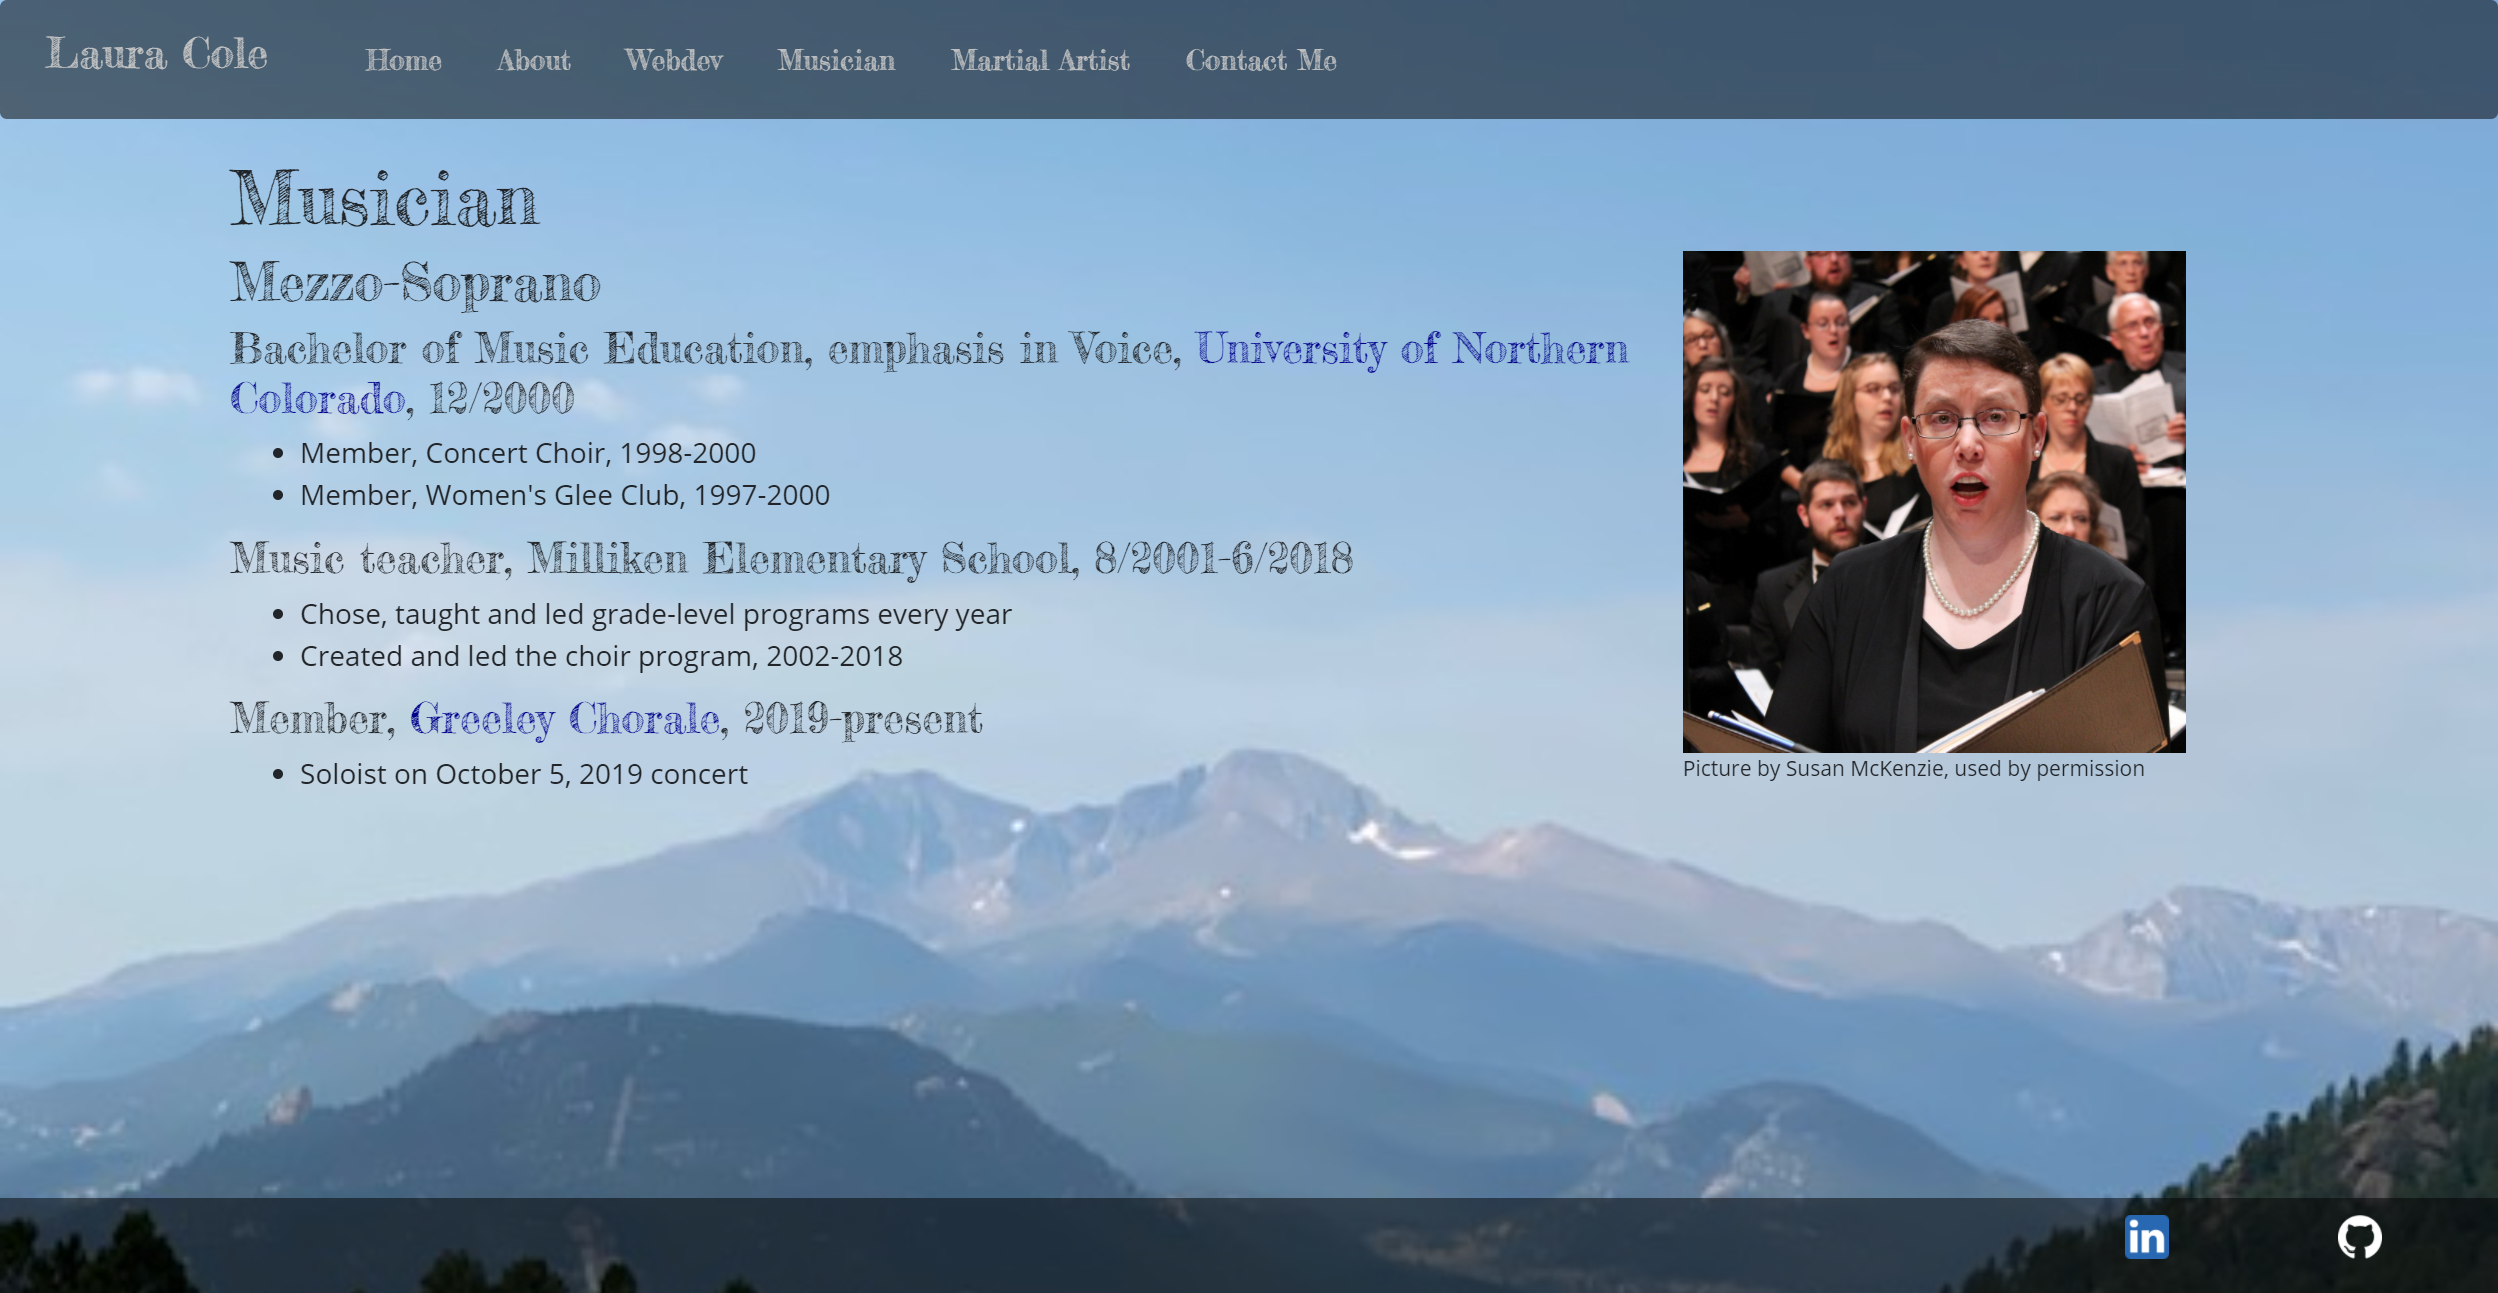
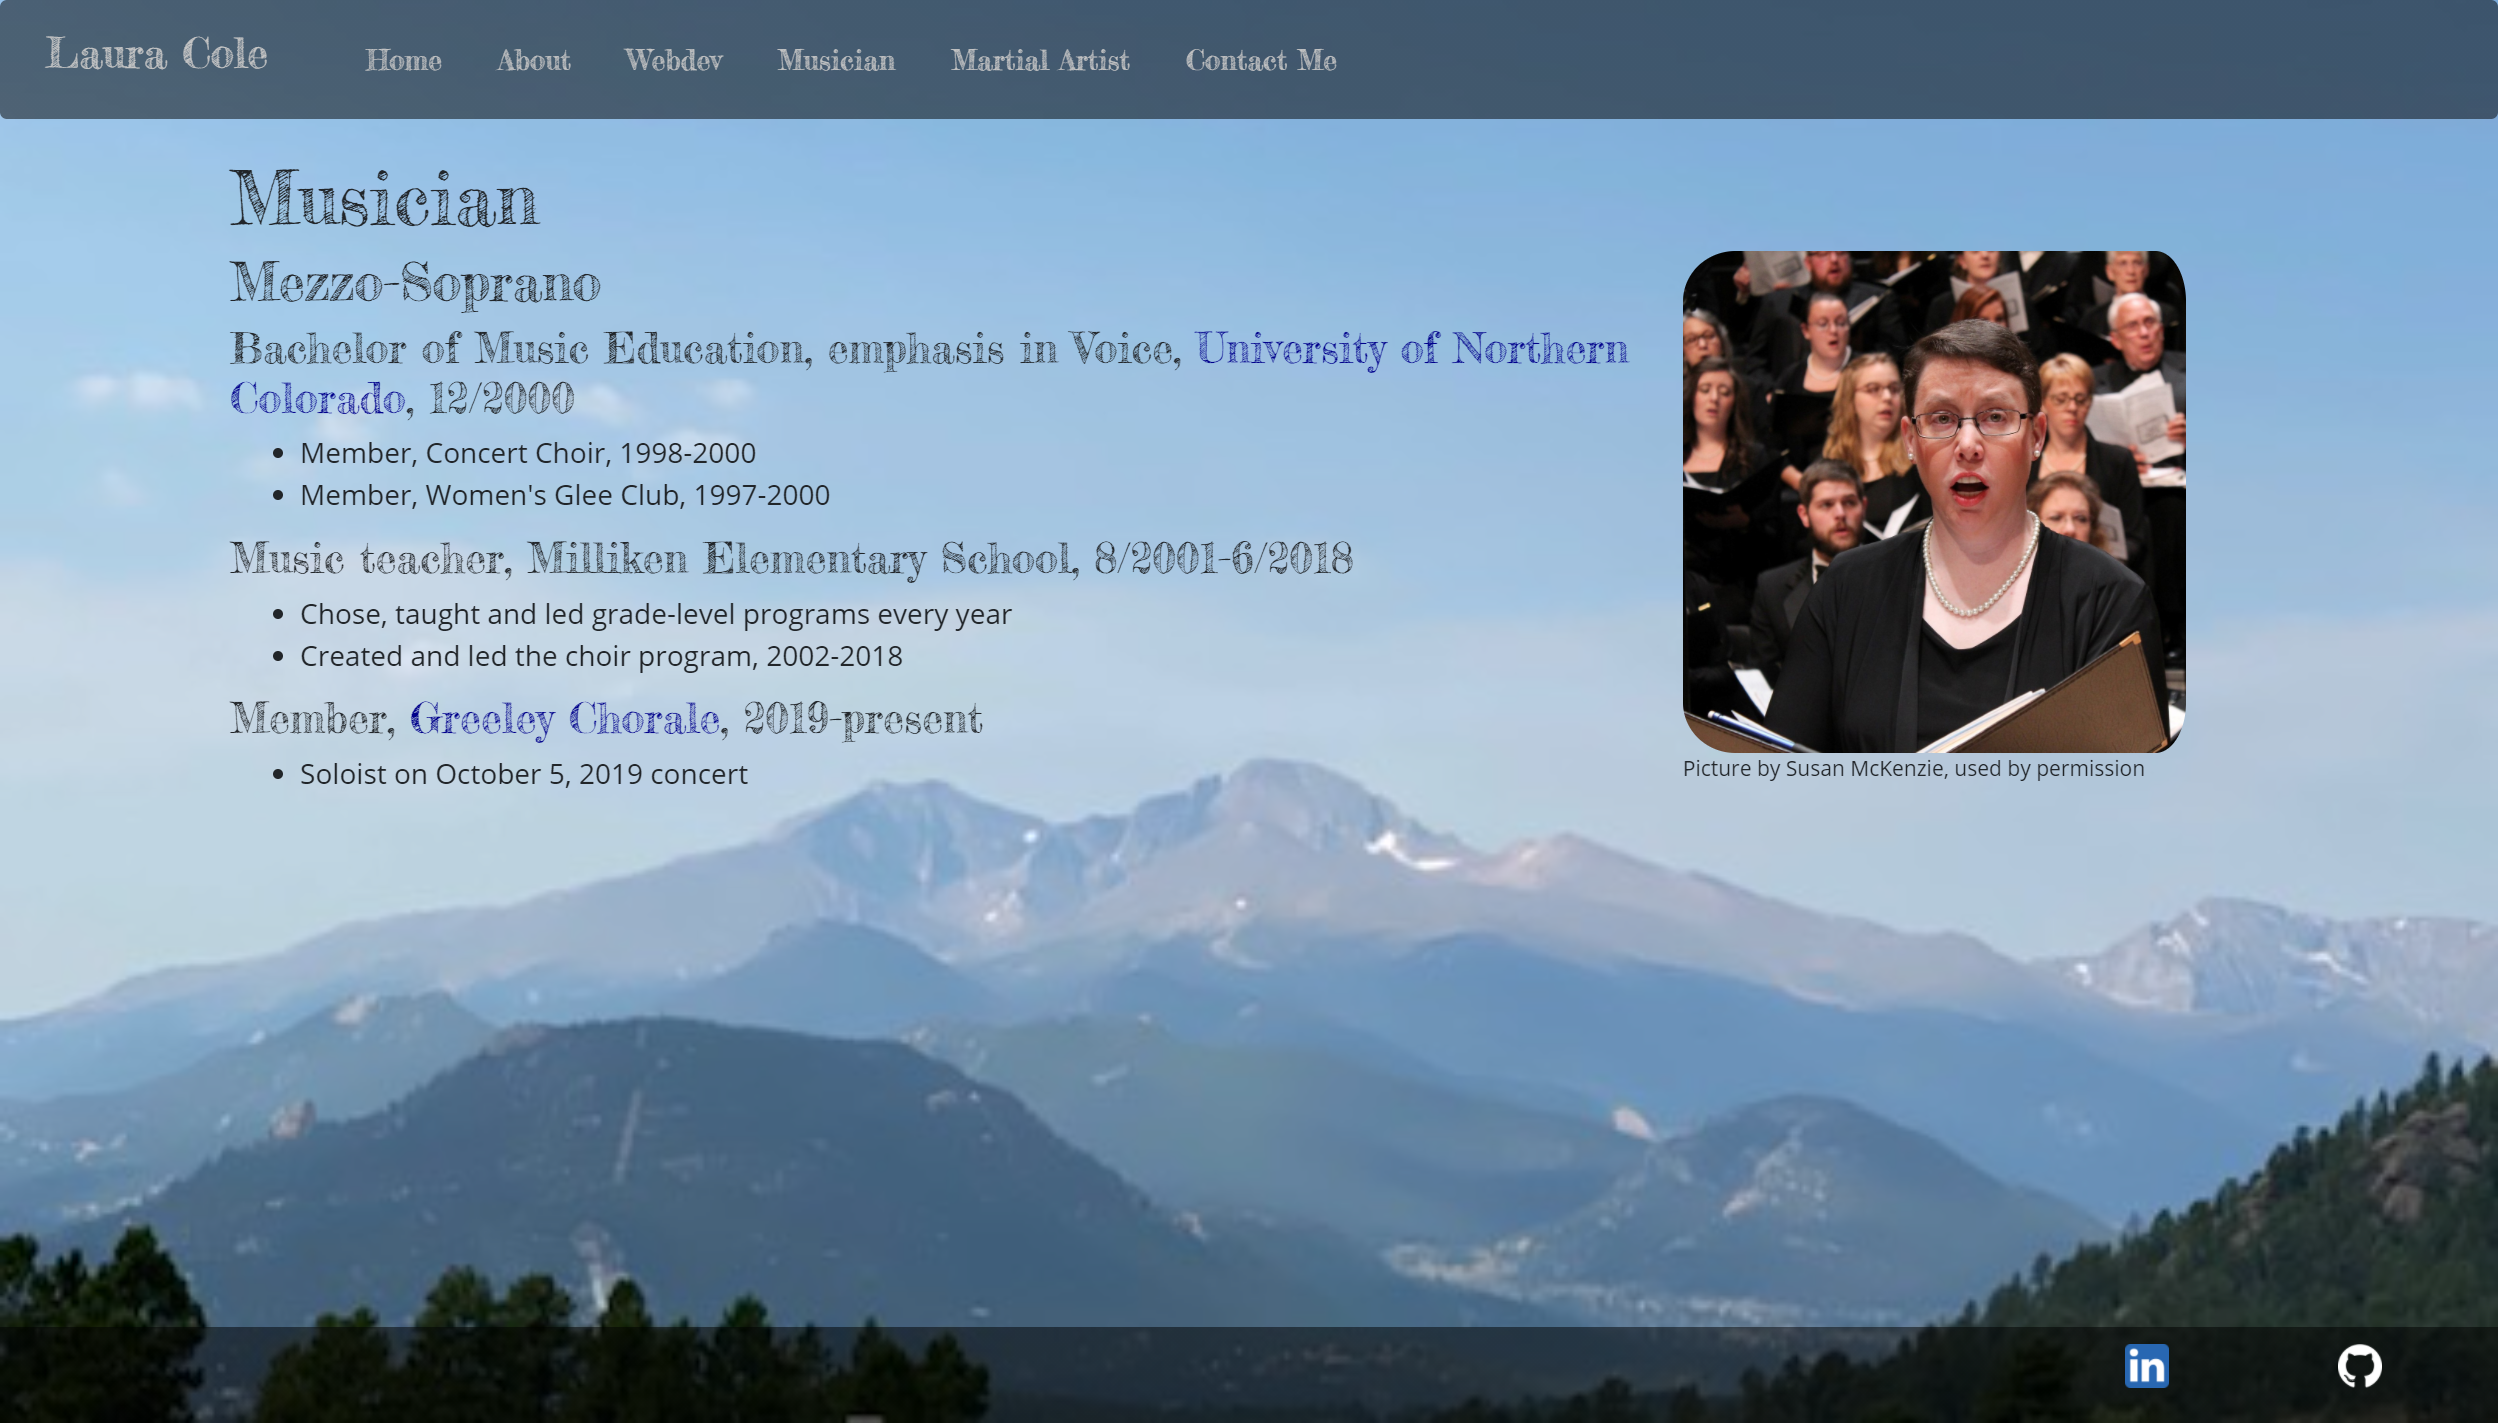
adjusted styling on pics of me, updated screenshots for README

diff --git a/my-portfolio/src/components/pages/music.js b/my-portfolio/src/components/pages/music.js
@@ -49,7 +49,7 @@ const Musician = () => {
           </Row>
         </Col>
         <Col sm={3}>
-          <Image fluid src={choralepic} alt="Laura Cole" className="mypic" />
+          <Image fluid src={choralepic} alt="Laura Cole" className="choralepic" />
           <p className="caption">Picture by Susan McKenzie, used by permission</p>
         </Col>
       </Row>

diff --git a/my-portfolio/src/components/pages/style.css b/my-portfolio/src/components/pages/style.css
@@ -39,6 +39,12 @@ a {
   border-radius: 50%;
 }
 
+.choralepic {
+  max-width: 300px;
+  padding-right: 1.25em;
+  border-radius: 10%;
+}
+
 .icon {
   max-width: 50px;
   margin-bottom: 2em;
